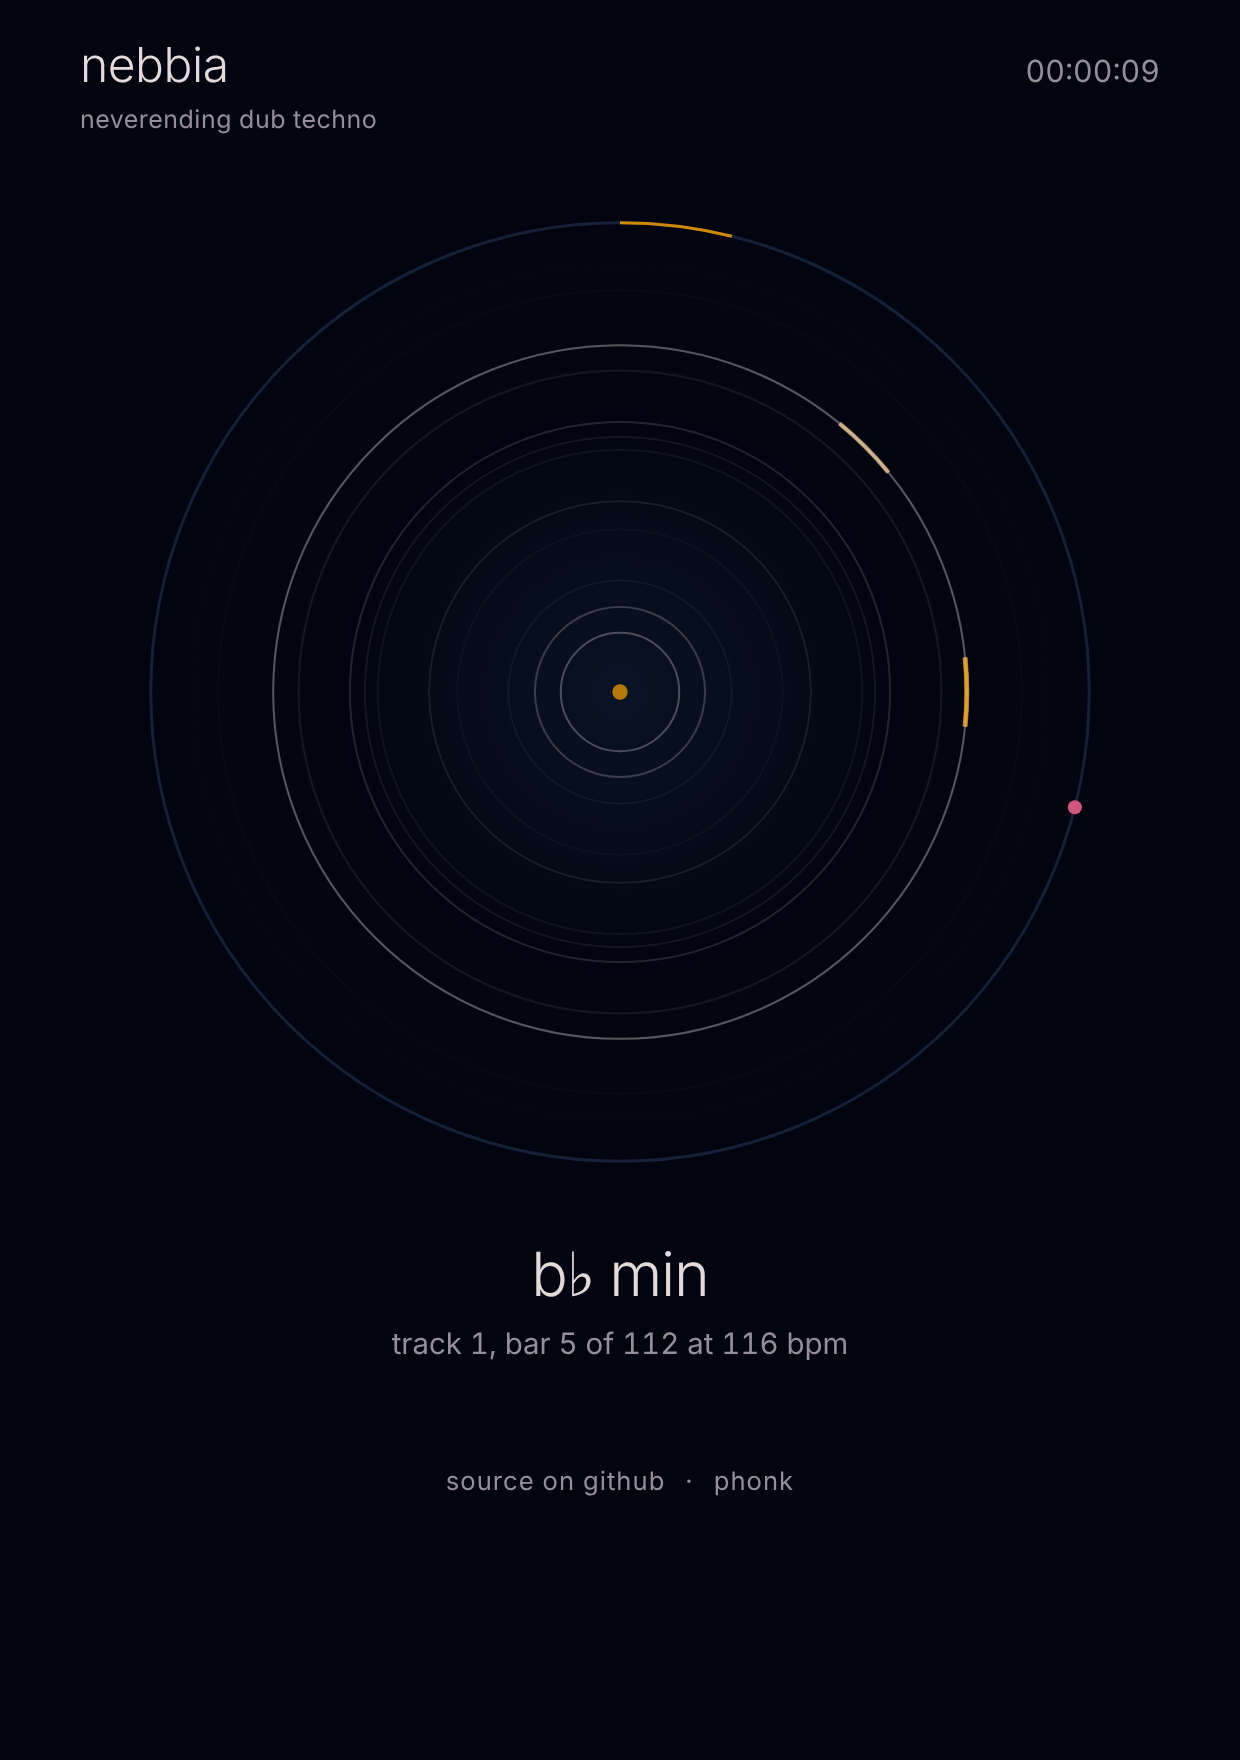
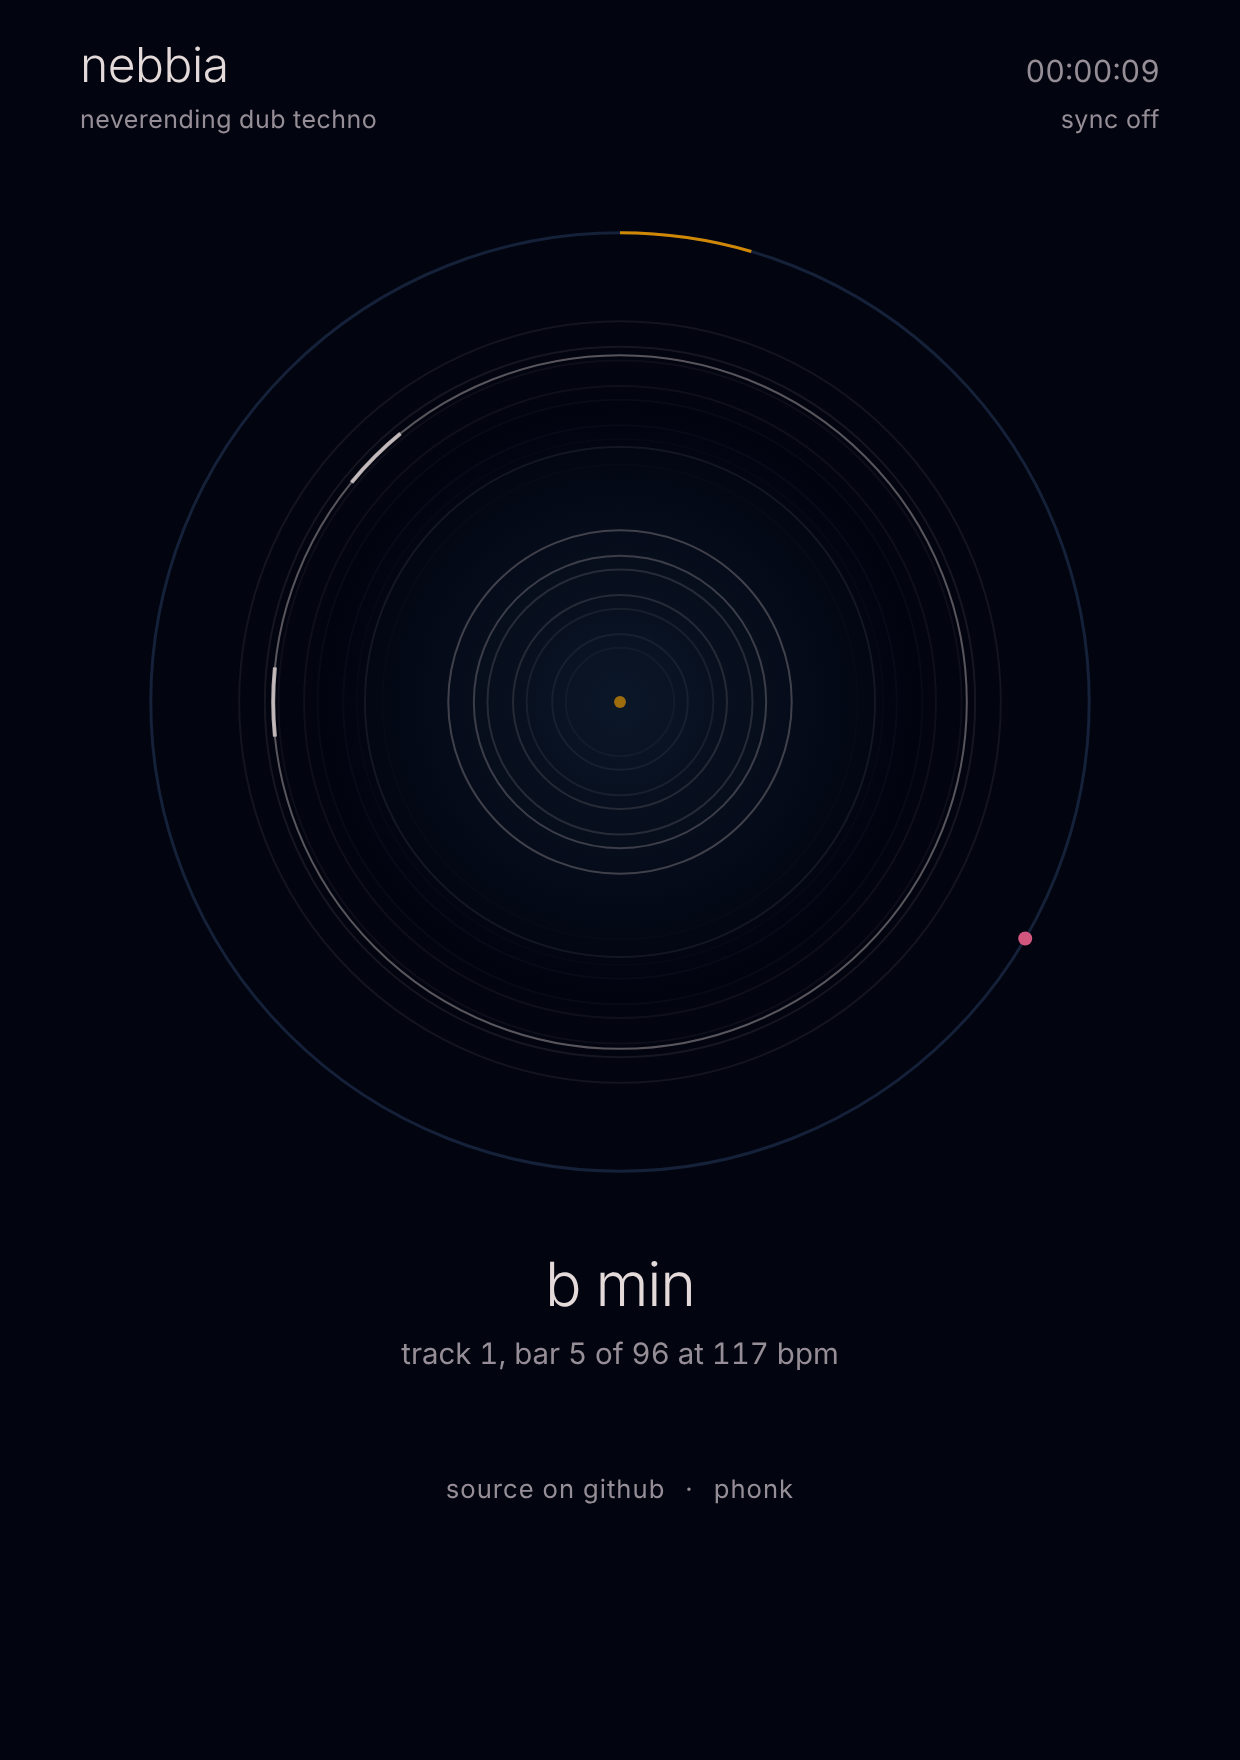
Add tape, warble, phaser, the fifth and MIDI clock sync
The chords now warble like tape and pass through a slow phaser, and
the whole mix runs through a tape stage with wow, flutter, saturation
and the odd dropout. Inside a track the chord stays put, with a move
to the fifth every 8 or 16 bars; the bass holds the root.

A sync label sends MIDI clock (out) or follows it (in), with Start
and Stop in both directions.

Claude-Session: https://claude.ai/code/session_01PvgmHvRfxFKxUuo4xfLyaD

diff --git a/index.html b/index.html
@@ -26,6 +26,11 @@ h1{font-weight:300;font-size:1.5rem;letter-spacing:-.01em;margin:0}
 .titleblock{display:flex;flex-direction:column;gap:2px}
 .tag{font-size:.78rem;color:var(--mute);letter-spacing:.02em}
 #clock{color:var(--mute);font-size:.95rem}
+.side{display:flex;flex-direction:column;align-items:flex-end;gap:2px}
+#sync{color:var(--mute);font-size:.78rem;letter-spacing:.02em;padding:4px 0}
+#sync:hover{color:var(--ink)}
+#sync.on{color:var(--amber)}
+#sync:focus-visible{outline:1px solid var(--amber);outline-offset:3px}
 
 .stage{display:block;width:100%;max-width:min(100%,58vh);aspect-ratio:1;margin:0 auto;position:relative;border-radius:50%;
   -webkit-tap-highlight-color:transparent}
@@ -51,7 +56,10 @@ h1{font-weight:300;font-size:1.5rem;letter-spacing:-.01em;margin:0}
       <h1>nebbia</h1>
       <span class="tag">neverending dub techno</span>
     </div>
-    <span id="clock" hidden>00:00:00</span>
+    <div class="side">
+      <span id="clock" hidden>00:00:00</span>
+      <button id="sync" type="button" aria-label="MIDI clock sync: off">sync off</button>
+    </div>
   </header>
 
   <button class="stage" id="toggle" type="button" aria-pressed="false" aria-label="Start">
@@ -80,8 +88,7 @@ h1{font-weight:300;font-size:1.5rem;letter-spacing:-.01em;margin:0}
   const KEYS = ['C', 'C♯', 'D', 'E♭', 'E', 'F', 'F♯', 'G', 'A♭', 'A', 'B♭', 'B'];
   const CHORDS = [[0, 3, 7, 10], [0, 3, 7, 10, 14], [0, 7, 10, 15], [0, 5, 7, 10], [0, 3, 10, 14], [0, 7, 15, 17], [0, 3, 7, 14]];
   const BASS_PATTERNS = [[2, 6, 10, 14], [3, 6, 11, 14], [2, 7, 10], [6, 14], [2, 3, 10, 11], [3, 10], [2, 6, 11]];
-  const PROGS = [[0], [0], [0], [0, 0, 0, -2], [0, 3], [0, 5], [0, 0, -2, -2], [0, -5]];
-
+  
   let ac = null, mix, master, noiseBuf, irBuf, crackleBuf;
   let decks = [], cur = 0, curL = 96, curT = 16, trackNo = 0;
   let step = 0, nextTime = 0, baseBpm = 118, t0 = 0, bpmNow = 118;
@@ -89,7 +96,12 @@ h1{font-weight:300;font-size:1.5rem;letter-spacing:-.01em;margin:0}
   const events = [];
 
   /* ---------- sound sources ---------- */
-  let bed = null;
+  let bed = null, tape = null;
+  function tanhCurve(k, out) {
+    const c = new Float32Array(1025);
+    for (let i = 0; i < 1025; i++) c[i] = Math.tanh((i / 512 - 1) * k) * out;
+    return c;
+  }
   function makeNoise(seconds) {
     const b = ac.createBuffer(1, ac.sampleRate * seconds, ac.sampleRate);
     const d = b.getChannelData(0);
@@ -137,7 +149,21 @@ h1{font-weight:300;font-size:1.5rem;letter-spacing:-.01em;margin:0}
       const dc = new Float32Array(1025);
       for (let i = 0; i < 1025; i++) { const x = (i / 512 - 1) * 3; dc[i] = Math.tanh(x + 0.18 * x * x) ; }
       this.dirt.curve = dc; this.dirt.oversample = '2x';
-      this.drive.connect(this.dirt); this.dirt.connect(this.dirtOut); this.dirtOut.connect(this.chordBus);
+      this.drive.connect(this.dirt); this.dirt.connect(this.dirtOut);
+      const bq = (type, f, q) => { const n = ac.createBiquadFilter(); n.type = type; n.frequency.value = f; n.Q.value = q; return n; };
+      const lfo = (f, depth, target) => { const o = ac.createOscillator(); o.frequency.value = f; const og = g(depth); o.connect(og); og.connect(target); o.start(); };
+      this.fxIn = g(1); { const dc = bq('highpass', 35, 0.5); this.dirtOut.connect(dc); dc.connect(this.fxIn); }
+      /* tape warble: wow, slow drift and flutter on the chords */
+      this.warb = ac.createDelay(0.2); this.warb.delayTime.value = 0.03;
+      this.warbDepth = g(1); this.warbDepth.connect(this.warb.delayTime);
+      lfo(rnd(0.35, 0.6), 0.0028, this.warbDepth); lfo(rnd(0.07, 0.13), 0.006, this.warbDepth); lfo(rnd(6, 8.5), 0.00006, this.warbDepth);
+      this.fxIn.connect(this.warb);
+      /* phaser */
+      const phDepth = g(600); { const o = ac.createOscillator(); o.frequency.value = rnd(0.05, 0.2); o.connect(phDepth); o.start(); }
+      let node = this.warb;
+      for (let k = 0; k < 4; k++) { const ap = bq('allpass', 900 + k * 500, 0.7); phDepth.connect(ap.frequency); node.connect(ap); node = ap; }
+      this.pre2 = g(1); this.warb.connect(this.pre2); { const pm = g(0.6); node.connect(pm); pm.connect(this.pre2); }
+      this.pre2.connect(this.chordBus);
 
       this.delay = ac.createDelay(2.5);
       this.delaySend = g(0.5);
@@ -164,6 +190,7 @@ h1{font-weight:300;font-size:1.5rem;letter-spacing:-.01em;margin:0}
       this.chordBus.connect(this.revSend); this.delay.connect(this.revSend);
       this.revSend.connect(this.rev); this.rev.connect(this.revOut); this.revOut.connect(this.pre);
 
+      lfo(0.23, 0.0018, this.delay.delayTime);   /* tape echo wobble */
       this.track = null; this.pad = null;
     }
 
@@ -183,6 +210,7 @@ h1{font-weight:300;font-size:1.5rem;letter-spacing:-.01em;margin:0}
       this.delaySend.gain.setValueAtTime(tr.delaySend, t);
       this.revSend.gain.setValueAtTime(tr.revSend, t);
       this.drive.gain.setValueAtTime(tr.drive, t);
+      this.warbDepth.gain.setValueAtTime(tr.warble, t);
       this.startPad(t);
     }
 
@@ -201,6 +229,10 @@ h1{font-weight:300;font-size:1.5rem;letter-spacing:-.01em;margin:0}
       });
       f.connect(gain); gain.connect(this.duck); gain.connect(this.revSend);
       this.pad = { gain, oscs };
+    }
+    /* once a bar the echo's tone moves a little */
+    morph(t, tr) {
+      this.fbLP.frequency.setTargetAtTime(clamp(tr.fbTone * Math.pow(2, 1.1 * Math.sin(t / tr.p2 + 1)), 600, 4500), t, 1);
     }
     stopPad(t) {
       if (!this.pad) return;
@@ -229,6 +261,7 @@ h1{font-weight:300;font-size:1.5rem;letter-spacing:-.01em;margin:0}
       const low = bar >= this.kickFrom && bar < this.kickUntil && !tr.breaks.has(rb);
 
       if (s === 0) {
+        this.morph(t, tr);
         this.delay.delayTime.setTargetAtTime(tr.delaySteps * sd, t, 0.6);
         if (!this.dubOut) this.fb.gain.setTargetAtTime(clamp(tr.fb + 0.07 * Math.sin(t / tr.fbPeriod), 0.3, 0.7), t, 1);
         if (rb > 0 && rb % 16 === 0) mutate(tr.stab[chance(0.5) ? 0 : 1]);
@@ -261,7 +294,7 @@ h1{font-weight:300;font-size:1.5rem;letter-spacing:-.01em;margin:0}
     }
 
     bass(t, sd, tr) {
-      const iv = chance(0.82) ? 0 : pick([7, 10, -2, 12]);
+      const iv = chance(0.9) ? 0 : 12;
       const f = mtof(tr.bassNote + iv);
       const o = ac.createOscillator(), o2 = ac.createOscillator(), g2 = ac.createGain();
       const lp = ac.createBiquadFilter(), g = ac.createGain();
@@ -296,7 +329,7 @@ h1{font-weight:300;font-size:1.5rem;letter-spacing:-.01em;margin:0}
     stab(t, vel, shift, tr, s) {
       const drift = 1.2 * Math.sin(t / tr.p1 + tr.ph) + 0.6 * Math.sin(t / tr.p2);
       const cut = clamp(tr.cut * Math.pow(2, drift) * rnd(0.82, 1.2), 140, 5000);
-      const f = ac.createBiquadFilter(); f.type = 'lowpass'; f.Q.value = tr.q;
+      const f = ac.createBiquadFilter(); f.type = tr.stabType; f.Q.value = tr.stabType === 'bandpass' ? tr.q * 0.4 : tr.q;
       f.frequency.setValueAtTime(Math.min(cut + tr.envAmt * vel, 9000), t);
       f.frequency.exponentialRampToValueAtTime(cut, t + tr.fDecay);
       const g = ac.createGain();
@@ -347,7 +380,12 @@ h1{font-weight:300;font-size:1.5rem;letter-spacing:-.01em;margin:0}
     return {
       root, chord: pick(CHORDS), base: root <= 6 ? 48 + root : 36 + root,
       bassNote: 31 + ((root + 5) % 12),
-      stab: [b1, b2], prog: pick(PROGS), progLen: pick([4, 8]),
+      stab: [b1, b2], /* every 8 or 16 bars the chord goes to the fifth for a bar (sometimes two), then comes home */
+      prog: (() => {
+        const fifth = (root <= 6 ? 48 + root : 36 + root) >= 50 ? -5 : 7, n = pick([8, 16, 16]);
+        const a = new Array(n).fill(0); a[n - 1] = fifth; if (n === 16 && chance(0.5)) a[n - 2] = fifth;
+        return a;
+      })(), progLen: 1,
       wave: chance(0.75) ? 'sawtooth' : 'square', detune: rnd(4, 14),
       cut: rnd(280, 800), envAmt: rnd(700, 3200), q: rnd(2, 8),
       decay: long ? rnd(0.45, 0.9) : rnd(0.09, 0.3), fDecay: long ? rnd(0.25, 0.6) : rnd(0.06, 0.25),
@@ -357,7 +395,9 @@ h1{font-weight:300;font-size:1.5rem;letter-spacing:-.01em;margin:0}
       kickTune: rnd(45, 52), kickDecay: rnd(0.26, 0.42), pump: rnd(0.07, 0.13),
       bassSteps: pick(BASS_PATTERNS), bassCut: rnd(170, 320), bassLen: rnd(1.1, 1.9),
       openHat: chance(0.8), hatMask, hatLevel: rnd(0.05, 0.09), hatDecay: rnd(0.025, 0.06), hatTone: rnd(6500, 9000),
-      clap: chance(0.45), drive: rnd(2.5, 7), grit: rnd(0.15, 0.5), padLevel: chance(0.65) ? rnd(0.02, 0.045) : 0, padCut: rnd(350, 700),
+      clap: chance(0.45), drive: rnd(2.5, 7), grit: rnd(0.15, 0.5),
+      stabType: chance(0.7) ? 'lowpass' : 'bandpass',
+      warble: rnd(0.6, 1.6), padLevel: chance(0.65) ? rnd(0.02, 0.045) : 0, padCut: rnd(350, 700),
       breaks, hatsOff
     };
   }
@@ -382,6 +422,7 @@ h1{font-weight:300;font-size:1.5rem;letter-spacing:-.01em;margin:0}
     const other = decks[1 - cur];
     if (rel === curL - curT) other.load(newTrack(c.track.root, 112, 32), bar, t, curT / 2, barDur, false);
     if (rel === curL - curT / 2) c.beginOut(bar, t, curT / 2, barDur);
+    if (tape && chance(0.07)) { const x = t + rnd(0, barDur); tape.gain.setTargetAtTime(0.55, x, 0.01); tape.gain.setTargetAtTime(1, x + 0.09, 0.05); }
     const key = KEYS[c.track.root] + ' min' + (other.track ? ' → ' + KEYS[other.track.root] + ' min' : '');
     events.push({ t, kind: 'bar', bpm: bpmNow, key, track: trackNo, rel, L: curL, dur: barDur, gbar: bar });
   }
@@ -393,8 +434,10 @@ h1{font-weight:300;font-size:1.5rem;letter-spacing:-.01em;margin:0}
     while (nextTime < now + ahead) {
       const el = nextTime - t0;
       bpmNow = baseBpm + 3 * Math.sin(el / 143) + 1.5 * Math.sin(el / 60);
+      if (sync === 'in' && extBpm) bpmNow = extBpm;
       const sd = 60 / bpmNow / 4, bar = Math.floor(step / 16), s = step % 16;
       if (s === 0) onBar(bar, nextTime, sd * 16);
+      if (sync === 'out') clockOut(nextTime, sd, s);
       decks[0].playStep(bar, s, nextTime, sd);
       decks[1].playStep(bar, s, nextTime, sd);
       nextTime += sd; step++;
@@ -435,6 +478,62 @@ h1{font-weight:300;font-size:1.5rem;letter-spacing:-.01em;margin:0}
   }
   document.addEventListener('visibilitychange', onReturn);
   window.addEventListener('pageshow', onReturn); window.addEventListener('focus', onReturn);
+  /* ---------- MIDI clock: send it (out) or follow it (in) ---------- */
+  let midi = null, sync = 'off', extBpm = 0, outRunning = false;
+  const ext = { n: 0, last: 0, per: 0, base: 0 };
+  const stamp = () => { try { const o = ac.getOutputTimestamp(); if (o && o.performanceTime > 0) return o; } catch (e) {} return { contextTime: ac.currentTime, performanceTime: performance.now() }; };
+  const toPerf = t => { const o = stamp(); return o.performanceTime + (t - o.contextTime) * 1000; };
+  const toAudio = ms => { const o = stamp(); return o.contextTime + (ms - o.performanceTime) / 1000; };
+  function sendAll(bytes, when) {
+    if (!midi) return;
+    midi.outputs.forEach(o => { try { when ? o.send(bytes, when) : o.send(bytes); } catch (e) {} });
+  }
+  /* 24 clocks per quarter note: six for every sixteenth, starting on a bar line */
+  function clockOut(t, sd, s) {
+    if (!outRunning) { if (s !== 0) return; outRunning = true; sendAll([0xFA], toPerf(t) - 1); }
+    for (let k = 0; k < 6; k++) sendAll([0xF8], toPerf(t + k * sd / 6));
+  }
+  function clockStop() { if (outRunning) { outRunning = false; sendAll([0xFC]); } }
+  function onMidi(e) {
+    if (sync !== 'in' || !e.data) return;
+    const b = e.data[0];
+    if (b === 0xFA) { ext.n = 0; ext.last = 0; if (!playing) { start(); ext.base = 0; } else ext.base = Math.ceil(step / 16) * 16; return; }
+    if (b === 0xFB) { if (!playing) { start(); ext.n = 0; ext.base = 0; } return; }
+    if (b === 0xFC) { if (playing) stop(); return; }
+    if (b !== 0xF8) return;
+    const now = e.timeStamp || performance.now();
+    if (ext.last) { const d = now - ext.last; if (d > 2 && d < 250) ext.per = ext.per ? ext.per + (d - ext.per) * 0.08 : d; }
+    ext.last = now;
+    if (ext.per) extBpm = clamp(60000 / (ext.per * 24), 60, 200);
+    if (playing && ac && ac.state === 'running' && ext.per && ext.n % 6 === 0) {
+      const sd = ext.per * 6 / 1000, ta = toAudio(now), n16 = ext.n / 6;
+      let want = ta + (step - ext.base - n16) * sd, err = want - nextTime;
+      if (Math.abs(err) > 0.06) {   /* far off: line up on the nearest bar, never skipping a step */
+        ext.base += 16 * Math.round(err / (16 * sd));
+        want = ta + (step - ext.base - n16) * sd;
+        while (want < ac.currentTime + 0.03) { ext.base -= 16; want += 16 * sd; }
+        nextTime = want;
+      } else nextTime += err * 0.2;
+    }
+    ext.n++;
+  }
+  function wire() { if (midi) midi.inputs.forEach(i => { i.onmidimessage = onMidi; }); }
+  function showSync(txt) {
+    const b = $('sync'); b.textContent = txt || ('sync ' + sync); b.classList.toggle('on', sync !== 'off');
+    b.setAttribute('aria-label', 'MIDI clock sync: ' + sync);
+  }
+  async function nextSync() {
+    const to = sync === 'off' ? 'out' : sync === 'out' ? 'in' : 'off';
+    if (to !== 'off' && !midi) {
+      try { midi = await navigator.requestMIDIAccess(); midi.onstatechange = wire; }
+      catch (e) { midi = null; showSync('no midi here'); setTimeout(() => showSync(), 1800); return; }
+    }
+    if (sync === 'out') clockStop();
+    sync = to; extBpm = 0; ext.n = 0; ext.last = 0; ext.per = 0; ext.base = step;
+    wire(); showSync();
+  }
+  $('sync').addEventListener('click', nextSync);
+
   function start() {
     try { if (navigator.audioSession) navigator.audioSession.type = 'playback'; } catch (e) {}
     ac = new (window.AudioContext || window.webkitAudioContext)({ latencyHint: 'playback' });
@@ -450,7 +549,16 @@ h1{font-weight:300;font-size:1.5rem;letter-spacing:-.01em;margin:0}
     const comp = ac.createDynamicsCompressor();
     comp.threshold.value = -14; comp.knee.value = 12; comp.ratio.value = 4; comp.attack.value = 0.01; comp.release.value = 0.25;
     mix = ac.createGain(); mix.gain.value = 0.8;
-    mix.connect(comp); comp.connect(master); master.connect(ac.destination);
+    /* master tape: wow and flutter, saturation, a duller top, a little head bump */
+    tape = ac.createGain();
+    const td = ac.createDelay(0.2); td.delayTime.value = 0.03;
+    [[0.45, 0.0009], [0.11, 0.002], [7.3, 0.00005]].forEach(([f, d]) => {
+      const o = ac.createOscillator(), og = ac.createGain(); o.frequency.value = f; og.gain.value = d; o.connect(og); og.connect(td.delayTime); o.start();
+    });
+    const ts = ac.createWaveShaper(); ts.curve = tanhCurve(1.6, 0.72); ts.oversample = '2x';
+    const tl = ac.createBiquadFilter(); tl.type = 'lowpass'; tl.frequency.value = 9500; tl.Q.value = -3;
+    const tb = ac.createBiquadFilter(); tb.type = 'peaking'; tb.frequency.value = 90; tb.Q.value = 0.9; tb.gain.value = 2.5;
+    mix.connect(tape); tape.connect(td); td.connect(ts); ts.connect(tl); const th = ac.createBiquadFilter(); th.type = 'highpass'; th.frequency.value = 24; th.Q.value = 0.5; tl.connect(tb); tb.connect(th); th.connect(comp); comp.connect(master); master.connect(ac.destination);
     master.gain.setTargetAtTime(0.9, ac.currentTime, 0.15);
 
     bed = ac.createGain(); bed.connect(mix);
@@ -460,7 +568,7 @@ h1{font-weight:300;font-size:1.5rem;letter-spacing:-.01em;margin:0}
     rum.connect(rf); rf.connect(rg); rg.connect(bed); rum.start(0, 0.7);
     const hiss = ac.createBufferSource(); hiss.buffer = noiseBuf; hiss.loop = true;
     const hf = ac.createBiquadFilter(); hf.type = 'lowpass'; hf.frequency.value = 4200;
-    const hg = ac.createGain(); hg.gain.value = 0.032;
+    const hg = ac.createGain(); hg.gain.value = 0.045;
     const hl = ac.createOscillator(); hl.frequency.value = 0.06;
     const hlg = ac.createGain(); hlg.gain.value = 0.012; hl.connect(hlg); hlg.connect(hg.gain); hl.start();
     hiss.connect(hf); hf.connect(hg); hg.connect(bed); hiss.start();
@@ -484,6 +592,7 @@ h1{font-weight:300;font-size:1.5rem;letter-spacing:-.01em;margin:0}
   }
   function stop() {
     playing = false;
+    clockStop();
     if (worker) { worker.postMessage('halt'); worker.terminate(); worker = null; }
     clearInterval(fallbackTimer);
     const old = ac; ac = null;

diff --git a/README.md b/README.md
@@ -12,6 +12,8 @@ A dub techno mix that is generated live in your browser and never plays the same
 
 There is one thing to touch: **the dial**. Tap it to start, tap it again to stop. Every start is a new mix.
 
+The small **sync** label at the top right is optional: it locks nebbia to your other machines over MIDI clock (see below).
+
 ## What you see
 
 - **The two inner rings** are the two decks. The marks on a ring are the chord pattern of its track, and each one lights up amber when it plays. During a transition one ring rises while the other fades.
@@ -23,15 +25,26 @@ Under the dial you read the key, the track number, the bar and the tempo. The cl
 
 ## How it works
 
-**Tracks.** Each track is drawn at random: a key, a minor chord voicing, a two-bar stab pattern, a bass line, hats, sometimes a clap and a pad, and its own sound (filter, decay, drive, grit, echo time and feedback). A track lasts 64 to 112 bars.
+**Tracks.** Each track is drawn at random: a key, one minor chord voicing, a two-bar stab pattern, a bass line, hats, sometimes a clap and a pad, and its own sound (filter, decay, drive, grit, echo time and feedback). A track lasts 64 to 112 bars.
 
 **The mix.** Before a track ends, the next one comes in on the other deck, in a related key (same, a fourth or fifth away, or close by). First its chords fade in through a filter that slowly opens; halfway through, kick and bass swap from the old track to the new one; then the old track sinks into its own echo and disappears.
 
-**Movement inside a track.** The chord filter drifts slowly on two long cycles. One hit of the stab pattern moves every 16 bars. Now and then the kick drops out for a few bars, or the hats leave. The echo feedback wanders.
+**Movement inside a track.** The chord stays put: every 8 or 16 bars the stabs go to the fifth for a bar or two and come home, while the bass holds the root. The chord filter drifts slowly on two long cycles. One hit of the stab pattern moves every 16 bars. Now and then the kick drops out for a few bars, or the hats leave. The echo feedback wanders.
 
 **Tempo.** It drifts slowly around 114 to 120 bpm, and the echo follows it.
 
-**Tone.** Chords are detuned saws with a layer of noise, pushed through a resonant filter and an asymmetric overdrive, then into a filtered, saturated echo and a long dark reverb. Under everything there is a bed of hiss, crackle and low rumble that pumps with the kick.
+**Tone.** Chords are detuned saws with a layer of noise, pushed through a resonant filter (low-pass, on some tracks band-pass) and an asymmetric overdrive, then a slow phaser, a filtered, saturated echo and a long dark reverb. Under everything there is a bed of hiss, crackle and low rumble that pumps with the kick.
+
+**Tape.** The chords warble with wow, slow drift and flutter, and the echo wobbles on its own. The whole mix then runs through a tape stage: a lighter wow and flutter, saturation, a duller top, a small bump in the lows and the odd dropout.
+
+## MIDI clock
+
+Tap **sync** to move between *off*, *out* and *in*.
+
+- **sync out**: nebbia is the master. It sends Start on a bar line, 24 clocks per quarter note at the tempo of the mix (which keeps drifting), and Stop when you stop it. It sends to every connected MIDI port.
+- **sync in**: nebbia follows the incoming clock. External Start and Stop start and stop it, and the tempo no longer drifts.
+
+This needs Web MIDI: Chrome, Edge or Firefox on a computer or on Android. Safari and iPhone do not have it.
 
 ## Notes
 
